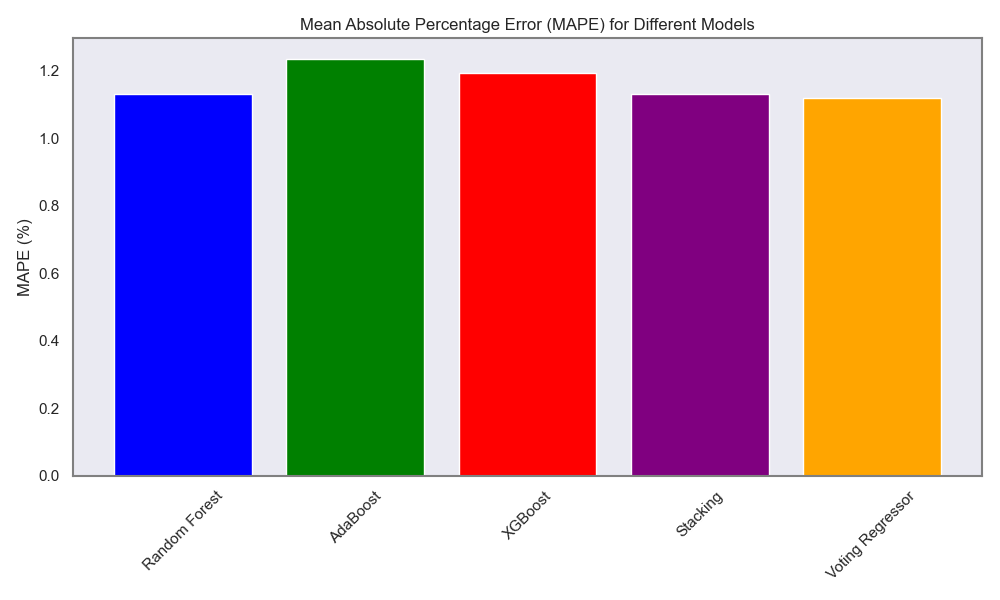
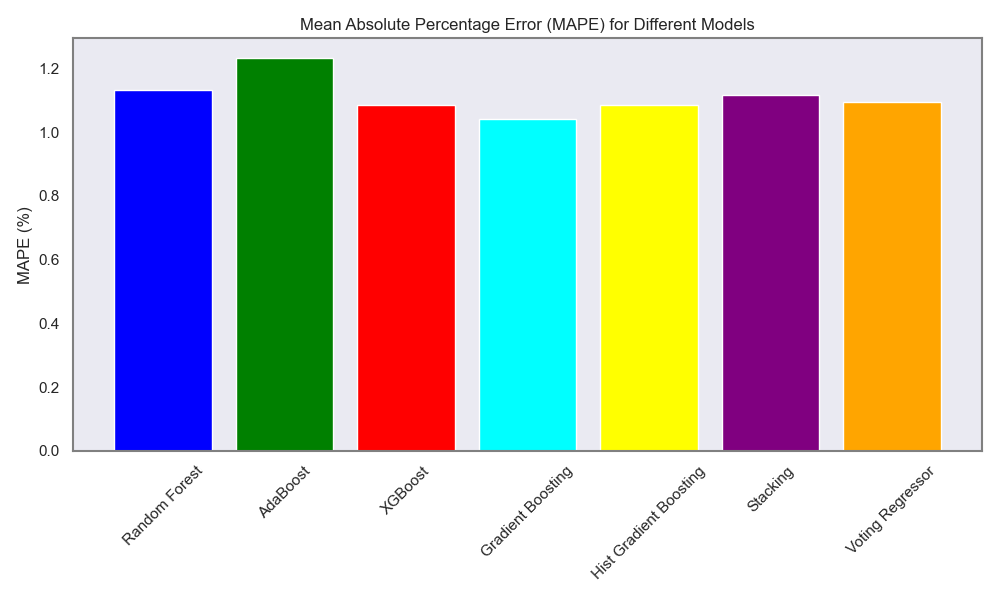
added Gradient boosting and Hist Gradient boosting for modelling.\n small changes like plotting when fitting added

diff --git a/streamlit_app/pages/02_Bitcoin_Prediction.py b/streamlit_app/pages/02_Bitcoin_Prediction.py
@@ -64,7 +64,9 @@ st.write(f"\nFeatures shape: {X.shape}, Target shape: {y.shape}")  # Print shape
 # Time-based split for financial data (no shuffling)
 X_train, X_test, y_train, y_test = train_test_split(X, y, test_size=0.2, shuffle=False)
 st.header("Different Models Comparison")
-tab1,tab2,tab3,tab4,tab5=st.tabs(["Random Forest", "AdaBoost","XGBoost","Stacking","Voting"])
+tab1,tab2,tab3,tab4,tab5,tab6,tab7=st.tabs(["Random Forest", "AdaBoost","XGBoost",
+                                            "Gradient Boosting","Hist Gradient Boosting",
+                                            "Stacking","Voting"])
 with tab1:
     ct_RF=st.container(border=True) #container for Random forest
 with tab2:
@@ -72,12 +74,18 @@ with tab2:
 with tab3:
     ct_XGB=st.container(border=True) #container for XGboost
 with tab4:
-    ct_stck=st.container(border=True) #container for stacking
+    ct_GB=st.container(border=True)
 with tab5:
+    ct_HGB=st.container(border=True)
+with tab6:
+    ct_stck=st.container(border=True) #container for stacking
+with tab7:
     ct_vt=st.container(border=True) #container for voting
 ct_RF.header("Random Forest")
 ct_AdaB.header("AdaBoost")
 ct_XGB.header("XGBoost")
+ct_GB.header("Gradient Boosting")
+ct_HGB.header("Hist Gradient Boosting")
 ct_stck.header("Stacking")
 ct_vt.header("Voting")
 
@@ -112,8 +120,8 @@ with ct_RF:
     with st.spinner(text="Grid Search for Random Forest"):
         grid_search_rf.fit(X_train, y_train)  # Fit grid search to training data
         best_rf = grid_search_rf.best_estimator_  # Get best Random Forest model
-
-
+        rf_pred_tuned = best_rf.predict(X_test)  # Random Forest predictions
+ct_RF.pyplot(plot_predictions("Random Forest", rf_pred_tuned,X_test,y_test))
 # **************************************************
 #                       AdaBoost
 # **************************************************
@@ -135,6 +143,8 @@ with ct_AdaB:
     with st.spinner(text="Grid Search for AdaBoost"):
         grid_search_ada.fit(X_train, y_train)  # Fit grid search to training data
         best_ada = grid_search_ada.best_estimator_  # Get best AdaBoost model
+        ada_pred_tuned = best_ada.predict(X_test)  # AdaBoost predictions
+ct_AdaB.pyplot(plot_predictions("AdaBoost", ada_pred_tuned,X_test,y_test))
 
 # **************************************************
 #                       XGBoost
@@ -161,7 +171,56 @@ with ct_XGB:
     with st.spinner("Grid Search XGBoost"):
         grid_search_xgb.fit(X_train, y_train)  # Fit grid search to training data
         best_xgb = grid_search_xgb.best_estimator_  # Get best XGBoost model
+        xgb_pred_tuned = best_xgb.predict(X_test)  # XGBoost predictions
+
+ct_XGB.pyplot(plot_predictions("XGBoost", xgb_pred_tuned,X_test,y_test))
 #st.divider()
+# **********************************************************************
+#                     Gradient Boosting
+# **********************************************************************
+from sklearn.ensemble import GradientBoostingRegressor
+param_grid_gb={
+    "n_estimators":[50,100,150], # number of boosting rounds
+    "learning_rate":[0.01,0.05,0.1,0.5,1], #learning rate
+}
+grid_search_gb=GridSearchCV(
+    GradientBoostingRegressor(),
+    param_grid_gb,
+    cv=3,
+    n_jobs=-1,
+    verbose=2,
+    scoring="neg_mean_squared_error"
+)
+with ct_GB:
+    with st.spinner(text="Grid Search for Gradient Boosting"):
+        grid_search_gb.fit(X_train,y_train)
+        best_gb=grid_search_gb.best_estimator_
+        gb_pred_tuned=best_gb.predict(X_test)
+ct_GB.pyplot(plot_predictions("Gradient Boosting",gb_pred_tuned,X_test,y_test))
+# *************************************************************
+#                 Hist Gradient Boosting
+# *************************************************************
+from sklearn.ensemble import HistGradientBoostingRegressor
+param_grid_hgb={
+    #"n_estimators":[50,100,150],
+    "learning_rate":[0.01,0.05,0.1,0.5,1]
+}
+HistGradientBoostingRegressor()
+grid_search_hgb=GridSearchCV(
+    HistGradientBoostingRegressor(),
+    param_grid_hgb,
+    cv=3,
+    n_jobs=-1,
+    verbose=2,
+    scoring="neg_mean_squared_error"
+)
+with ct_HGB:
+    with st.spinner(text="Grid Search for Hist Gradient Boosting"):
+        grid_search_hgb.fit(X_train,y_train)
+        best_hgb=grid_search_hgb.best_estimator_
+        hgb_pred_tuned=best_hgb.predict(X_test)
+        st.pyplot(plot_predictions("Hist Gradient Boosting",hgb_pred_tuned,X_test,y_test))
+   
 
 # **************************************************
 #                       Stacking
@@ -190,7 +249,8 @@ with ct_stck:
     with st.spinner(text="Grid Search for Stacking"):
         grid_search_stack.fit(X_train, y_train)  # Fit grid search to training data
         best_stack = grid_search_stack.best_estimator_  # Get best stacking model
-
+        stack_pred_tuned = best_stack.predict(X_test)  # Stacking predictions
+ct_stck.pyplot(plot_predictions("Stacking", stack_pred_tuned,X_test,y_test))
 # st.divider()
 # ct_vt.header("Voting")
 # **************************************************
@@ -212,32 +272,58 @@ with ct_vt:
     with st.spinner("Grid Search for Voting"):
         voting_reg.fit(X_train, y_train)  # Fit voting regressor to training data
         vote_pred = voting_reg.predict(X_test)  # Predict on test data
-
-with st.container():
-    with st.spinner("predicting using best models"):
+ct_vt.pyplot(plot_predictions("Voting Regressor", vote_pred,X_test,y_test))
+# with st.container():
+#     with st.spinner("predicting using best models"):
         # Making predictions with each of the models
-        rf_pred_tuned = best_rf.predict(X_test)  # Random Forest predictions
-        ada_pred_tuned = best_ada.predict(X_test)  # AdaBoost predictions
-        xgb_pred_tuned = best_xgb.predict(X_test)  # XGBoost predictions
-        stack_pred_tuned = best_stack.predict(X_test)  # Stacking predictions
+        #rf_pred_tuned = best_rf.predict(X_test)  # Random Forest predictions
+        #ada_pred_tuned = best_ada.predict(X_test)  # AdaBoost predictions
+        #xgb_pred_tuned = best_xgb.predict(X_test)  # XGBoost predictions
+        #stack_pred_tuned = best_stack.predict(X_test)  # Stacking predictions
 
 # Define a function to plot predictions
 #import matplotlib.pyplot as plt  # Import plotting library
 
 
 # Use the function to plot each model's results
-ct_RF.pyplot(plot_predictions("Random Forest", rf_pred_tuned,X_test,y_test))
-ct_AdaB.pyplot(plot_predictions("AdaBoost", ada_pred_tuned,X_test,y_test))
-ct_XGB.pyplot(plot_predictions("XGBoost", xgb_pred_tuned,X_test,y_test))
-ct_stck.pyplot(plot_predictions("Stacking", stack_pred_tuned,X_test,y_test))
-ct_vt.pyplot(plot_predictions("Voting Regressor", vote_pred,X_test,y_test))
+#ct_RF.pyplot(plot_predictions("Random Forest", rf_pred_tuned,X_test,y_test))
+#ct_AdaB.pyplot(plot_predictions("AdaBoost", ada_pred_tuned,X_test,y_test))
+#ct_XGB.pyplot(plot_predictions("XGBoost", xgb_pred_tuned,X_test,y_test))
+#ct_stck.pyplot(plot_predictions("Stacking", stack_pred_tuned,X_test,y_test))
+#ct_vt.pyplot(plot_predictions("Voting Regressor", vote_pred,X_test,y_test))
+
+# with st.container(border=True):
+#     tab1,tab2,tab3,tab4=st.tabs(["Gradient Boosting","Hist Gradient Boosting",
+#                                  "LightGBM","CatBoost",])
+# with st.tab1:
+#     ct_GB=st.container(border=True)
+# with st.tab2:
+#     ct_HGB=st.container(border=True)
+# with st.tab3:
+#     ct_LGB=st.container(border=True)
+# with st.tab4:
+#     ct_CB=st.container(border=True)
+
+ 
+# *************************************************************
+#                   LightGBM
+# *************************************************************
+#from lightgbm
 
 st.pyplot(plot_feature_importance(
     best_rf.feature_importances_, X_train.columns, "Random Forest"
 ))  # RF feature importance
 st.pyplot(plot_feature_importance(
+    best_ada.feature_importances_,X_train.columns, "AdaBoost"
+)) #adaboost feature importance
+st.pyplot(plot_feature_importance(
     best_xgb.feature_importances_, X_train.columns, "XGBoost"
 ))  # XGB feature importance
+
+
+st.pyplot(plot_feature_importance(
+    best_gb.feature_importances_,X_train.columns, "Gradient Boosting"))
+
 
 import numpy as np  # Import numpy
 import matplotlib.pyplot as plt  # Import plotting library
@@ -247,6 +333,8 @@ from scripts.ensembles import compute_mape
 mape_rf = compute_mape(y_test, rf_pred_tuned)  # Random Forest MAPE
 mape_ada = compute_mape(y_test, ada_pred_tuned)  # AdaBoost MAPE
 mape_xgb = compute_mape(y_test, xgb_pred_tuned)  # XGBoost MAPE
+mape_gb  = compute_mape(y_test,gb_pred_tuned)
+mape_hgb = compute_mape(y_test,xgb_pred_tuned)
 mape_stack = compute_mape(y_test, stack_pred_tuned)  # Stacking MAPE
 mape_vote = compute_mape(y_test, vote_pred)  # Voting Regressor MAPE
 
@@ -255,14 +343,16 @@ models = [
     "Random Forest",
     "AdaBoost",
     "XGBoost",
+    "Gradient Boosting",
+    "Hist Gradient Boosting",
     "Stacking",
     "Voting Regressor",
 ]  # Model names
-mape_values = [mape_rf, mape_ada, mape_xgb, mape_stack, mape_vote]  # MAPE values
+mape_values = [mape_rf, mape_ada, mape_xgb,mape_gb,mape_hgb, mape_stack, mape_vote]  # MAPE values
 
 fig=plt.figure(figsize=(10, 6))  # Set figure size
 plt.bar(
-    models, mape_values, color=["blue", "green", "red", "purple", "orange"]
+    models, mape_values, color=["blue", "green", "red","cyan" , "yellow", "purple", "orange"]
 )  # Bar plot
 plt.ylabel("MAPE (%)")  # Y-axis label
 plt.title("Mean Absolute Percentage Error (MAPE) for Different Models")  # Title
@@ -274,11 +364,13 @@ st.pyplot(fig)
 
 # Print out the computed MAPE values
 with st.container(border=True):
-    st.write(f"Random Forest MAPE: {mape_rf:.2f}%")
-    st.write(f"AdaBoost MAPE: {mape_ada:.2f}%")
-    st.write(f"XGBoost MAPE: {mape_xgb:.2f}%")
-    st.write(f"Stacking MAPE: {mape_stack:.2f}%")
-    st.write(f"Voting Regressor MAPE: {mape_vote:.2f}%")
+    st.write(f"Random Forest MAPE:\t\t {mape_rf:.2f}%")
+    st.write(f"AdaBoost MAPE:\t\t {mape_ada:.2f}%")
+    st.write(f"XGBoost MAPE:\t\t {mape_xgb:.2f}%")
+    st.write(f"Gradient Boosting MAPE:\t\t {mape_xgb:.2f}%")
+    st.write(f"Hist Gradient Boosting MAPE:\t\t {mape_xgb:.2f}%")
+    st.write(f"Stacking MAPE:\t\t {mape_stack:.2f}%")
+    st.write(f"Voting Regressor MAPE:\t\t {mape_vote:.2f}%")
 
 # Make prediction for next day
 latest_date = btc_usdt.index[-1]  # Get last date in dataset
@@ -290,13 +382,17 @@ next_day_date = (latest_date + timedelta(days=1)).strftime(
 next_day_data = btc_usdt.iloc[-1:].drop(columns=["close"])  # Last row, drop 'Close'
 
 # Predict using the best model
-next_day_pred_rf = best_rf.predict(next_day_data)  # RF prediction
+next_day_pred_rf  = best_rf.predict(next_day_data)  # RF prediction
 next_day_pred_xgb = best_xgb.predict(next_day_data)  # XGB prediction
+next_day_pred_gb  = best_gb.predict(next_day_data)
+next_day_pred_hgb = best_hgb.predict(next_day_data)
 next_day_pred_stack = best_stack.predict(next_day_data)  # Stacking prediction
 
 with st.container(border=True):
     st.title(f"\nPredictions for {next_day_date}:")
-    st.write(f"Random Forest BTC-USD Closing: ${next_day_pred_rf[0]:.2f}")
-    st.write(f"XGBoost BTC-USD Closing: ${next_day_pred_xgb[0]:.2f}")
-    st.write(f"Stacking Ensemble BTC-USD Closing: ${next_day_pred_stack[0]:.2f}")
-    st.write(f"True prediction BTC-USD Closing: ${btc_usdt['close'].iloc[-1]:.2f}")
+    st.write(f"Random Forest BTC-USD Closing:\t\t ${next_day_pred_rf[0]:.2f}")
+    st.write(f"XGBoost BTC-USD Closing:\t\t ${next_day_pred_xgb[0]:.2f}")
+    st.write(f"Gradient Boosting BTC-USD Closing:\t\t ${next_day_pred_gb[0]:.2f}")
+    st.write(f"Hist Gradient Boosting BTC-USD Closing:\t\t ${next_day_pred_hgb[0]:.2f}")
+    st.write(f"Stacking Ensemble BTC-USD Closing:\t\t ${next_day_pred_stack[0]:.2f}")
+    st.write(f"True prediction BTC-USD Closing:\t\t ${btc_usdt['close'].iloc[-1]:.2f}")
